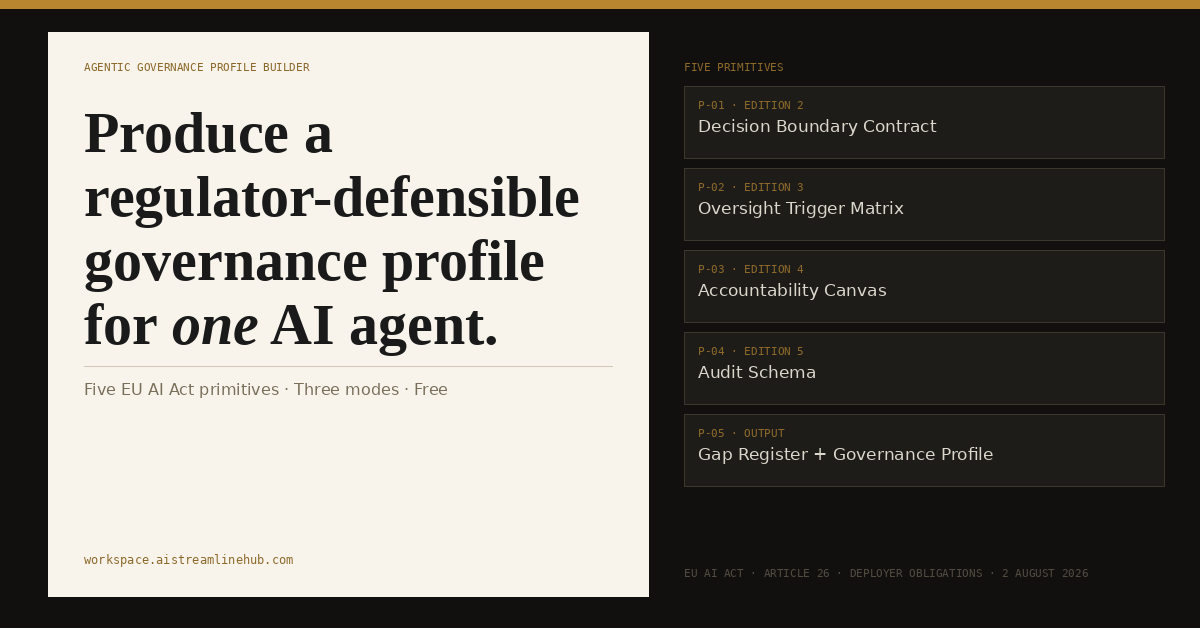
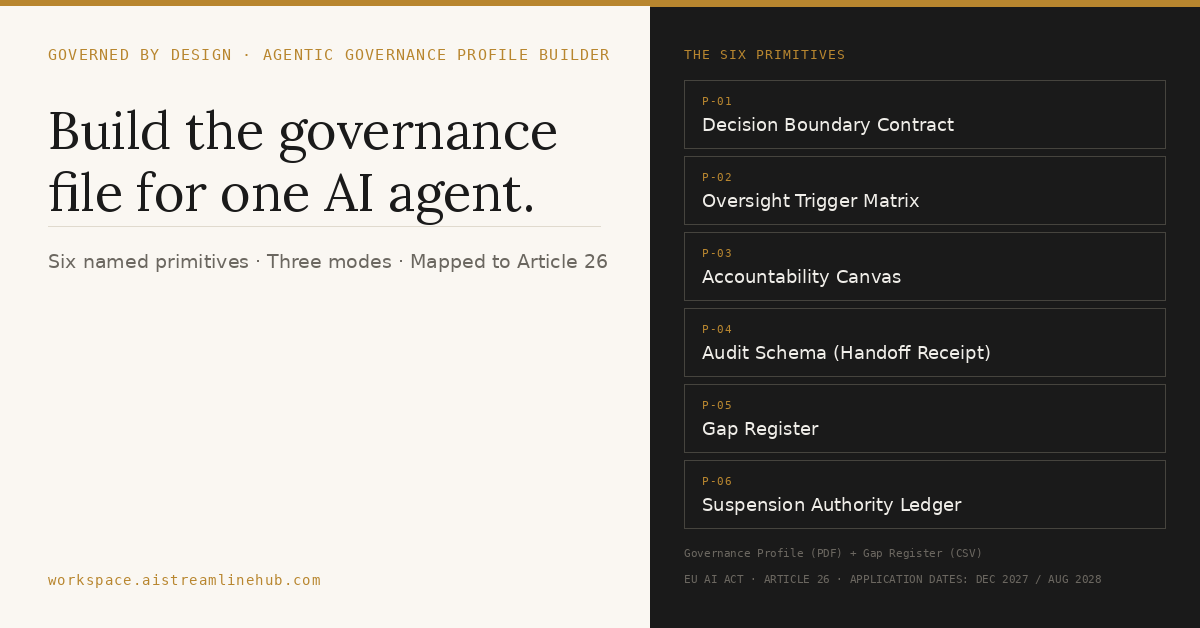
AGPB copy remediation: fix compliance claim, six-primitive list, metadata, hero copy, og-image (items 1-6)

diff --git a/public/index.html b/public/index.html
@@ -14,10 +14,10 @@
 </script>
 <script defer src="/_vercel/insights/script.js"></script>
 <link rel="canonical" href="https://workspace.aistreamlinehub.com/" />
-<meta name="description" content="Generate a regulator-defensible governance profile for one AI agent. Six EU AI Act primitives. Free. Works for agents in production and agents in design." />
+<meta name="description" content="Build a structured governance profile for one AI agent across six named primitives, mapped to EU AI Act Article 26 deployer obligations. Works for agents in design and agents already in production." />
 <meta name="robots" content="index, follow" />
-<meta property="og:title" content="Agentic Governance Profile Builder" />
-<meta property="og:description" content="Six EU AI Act governance primitives. One agent. One profile. Free." />
+<meta property="og:title" content="Agentic Governance Profile Builder — Governed by Design" />
+<meta property="og:description" content="Six named governance primitives. One agent. One profile you can hand to an auditor." />
 <meta property="og:url" content="https://workspace.aistreamlinehub.com/" />
 <meta property="og:type" content="website" />
 <meta name="twitter:card" content="summary_large_image" />
@@ -25,9 +25,9 @@
 <meta property="og:image:width" content="1200" />
 <meta property="og:image:height" content="628" />
 <meta name="twitter:image" content="https://workspace.aistreamlinehub.com/og-image.png" />
-<meta name="twitter:title" content="Agentic Governance Profile Builder" />
-<meta name="twitter:description" content="Six EU AI Act governance primitives. One agent. One profile. Free." />
-<title>Agentic Governance Profile Builder v1.2</title>
+<meta name="twitter:title" content="Agentic Governance Profile Builder — Governed by Design" />
+<meta name="twitter:description" content="Six named governance primitives. One agent. One profile you can hand to an auditor." />
+<title>Agentic Governance Profile Builder — EU AI Act Article 26 governance artefacts</title>
 <link rel="preconnect" href="https://fonts.googleapis.com" />
 <link rel="preconnect" href="https://fonts.gstatic.com" crossorigin />
 <link href="https://fonts.googleapis.com/css2?family=Instrument+Serif:ital@0;1&family=IBM+Plex+Sans:wght@300;400;500;600&family=IBM+Plex+Mono:wght@400;500&display=swap" rel="stylesheet" />
@@ -109,23 +109,27 @@
 <body>
 <div id="root">
   <div style="max-width:720px;margin:80px auto;padding:0 24px;font-family:sans-serif;color:#1A1A1A;">
-    <p style="font-size:11px;letter-spacing:0.1em;text-transform:uppercase;color:#6B6760;margin-bottom:24px;">AGENTIC GOVERNANCE PROFILE BUILDER · AISTREAMLINEHUB.COM</p>
-    <h1 style="font-size:2.5rem;font-weight:700;line-height:1.15;margin-bottom:16px;">Produce a regulator-defensible governance profile for one AI agent.</h1>
-    <p style="font-size:1.1rem;color:#444;margin-bottom:12px;">Six primitives. One agent. EU AI Act deployer obligations.</p>
+    <p style="font-size:11px;letter-spacing:0.1em;text-transform:uppercase;color:#6B6760;margin-bottom:24px;">GOVERNED BY DESIGN · AGENTIC GOVERNANCE PROFILE BUILDER</p>
+    <h1 style="font-size:2.5rem;font-weight:700;line-height:1.15;margin-bottom:16px;">Build the governance file for one AI agent.</h1>
+    <p style="font-size:1.1rem;color:#444;margin-bottom:12px;">Six named primitives. One agent. Mapped to EU AI Act Article 26 deployer obligations.</p>
     <p style="font-size:1rem;color:#444;margin-bottom:32px;">Works for agents you're building and agents already running in production. Three modes: pre-deployment, in-flight build, and retrofit on a deployed agent.</p>
-    <h2 style="font-size:1.2rem;font-weight:600;margin-bottom:8px;">What it produces</h2>
+    <h2 style="font-size:1.2rem;font-weight:600;margin-bottom:8px;">The six primitives</h2>
+    <p style="color:#444;margin-bottom:8px;">Six. There is no seventh.</p>
     <ul style="color:#444;line-height:1.8;margin-bottom:32px;">
-      <li>Decision Boundary Contract — what the agent may and may not do</li>
-      <li>Oversight Trigger Matrix — named human intervention calibrated to risk level</li>
-      <li>Suspension Authority Ledger — who can suspend the agent, on what trigger, and who gets notified</li>
-      <li>Accountability Canvas — four named owners before deployment</li>
-      <li>Audit Schema — queryable fields, retention, and Handoff Receipt structure</li>
-      <li>Governance Profile — regulator-defensible artifact, exportable as PDF</li>
-      <li>Gap Register — prioritised remediation plan, exportable as CSV</li>
+      <li>Decision Boundary Contract — what the agent may and may not decide</li>
+      <li>Oversight Trigger Matrix — named human intervention, calibrated to risk</li>
+      <li>Accountability Canvas — four named owners, before deployment</li>
+      <li>Audit Schema (Handoff Receipt) — queryable fields, retention, receipt structure</li>
+      <li>Gap Register — what is not yet documented, dated and owned</li>
+      <li>Suspension Authority Ledger — who can suspend, on what trigger, who is notified</li>
     </ul>
-    <h2 style="font-size:1.2rem;font-weight:600;margin-bottom:8px;">EU AI Act Article 26 deployer obligations</h2>
-    <p style="color:#444;margin-bottom:32px;">Article 26 deployer obligations apply from 2 August 2026. The AGPB maps each obligation to a named governance primitive and produces a profile that satisfies the documentation requirements for risk management, human oversight, accountability, and logging.</p>
-    <p style="font-size:0.9rem;color:#6B6760;">Free. No account required. Built by <a href="https://www.aistreamlinehub.com" style="color:#B8862F;">AI Streamline Hub</a>.</p>
+    <h2 style="font-size:1.2rem;font-weight:600;margin-bottom:8px;">What you take away</h2>
+    <p style="color:#444;margin-bottom:32px;">A Governance Profile covering all six primitives, exportable as PDF, and a Gap Register exportable as CSV.</p>
+    <h2 style="font-size:1.2rem;font-weight:600;margin-bottom:8px;">How it maps to EU AI Act Article 26</h2>
+    <p style="color:#444;margin-bottom:16px;">Article 26 sets out what a deployer of a high-risk AI system is expected to do: use the system per the provider's instructions, assign competent human oversight, monitor operation, retain logs, and inform affected people where required. The Builder maps each of those obligations to a named primitive and gives you a structured place to record how your organisation meets it — including what it does not yet meet.</p>
+    <p style="color:#444;margin-bottom:16px;">The application date for standalone Annex III high-risk systems is 2 December 2027, and 2 August 2028 for systems embedded in regulated products, following the Digital Omnibus on AI (OJ L_202601744, in force 27 July 2026). The obligations did not change. Only the date did.</p>
+    <p style="color:#444;margin-bottom:32px;">This is a documentation aid, not legal advice, and it does not determine your obligations or discharge them. For decisions about your institution, involve counsel.</p>
+    <p style="font-size:0.9rem;color:#6B6760;">No account. No payment. No sales follow-up. Built by <a href="https://www.aistreamlinehub.com" style="color:#B8862F;">AI Streamline Hub</a>.</p>
   </div>
 </div>
 
@@ -284,12 +288,12 @@ function App() {
   if (stage === 'welcome') return (
     <div className="min-h-screen flex items-center justify-center p-8 fade-in">
       <div className="max-w-2xl w-full">
-        <div className="mono text-xs tracking-widest text-[var(--muted)] mb-6">AGENTIC GOVERNANCE PROFILE BUILDER / v1.2</div>
+        <div className="mono text-xs tracking-widest text-[var(--muted)] mb-6">GOVERNED BY DESIGN · AGENTIC GOVERNANCE PROFILE BUILDER v1.2</div>
         <h1 className="display text-5xl md:text-6xl leading-[1.05] mb-6">
-          Produce a regulator-defensible<br/>
-          governance profile for <em className="display italic">one</em> AI agent.
+          Build the governance file<br/>
+          for <em className="display italic">one</em> AI agent.
         </h1>
-        <p className="text-[var(--muted)] text-lg leading-relaxed mb-2 max-w-xl">Six primitives. One agent. EU AI Act deployer obligations.</p>
+        <p className="text-[var(--muted)] text-lg leading-relaxed mb-2 max-w-xl">Six named primitives. One agent. Mapped to EU AI Act Article 26 deployer obligations.</p>
         <p className="text-[var(--muted)] leading-relaxed mb-10 max-w-xl">
           Works for agents you're building <em>and</em> agents already running in production. Choose your deployment status to shape the workspace.
         </p>
@@ -1328,7 +1332,8 @@ function downloadGapRegister(agent, gaps) {
     target_close_days: g.targetDays,
   }));
   const headers = Object.keys(rows[0]).join(',');
-  const csv = headers + '\n' + rows.map(r =>
+  const disclaimer = '"Not legal advice. This export is a documentation aid produced with the Agentic Governance Profile Builder (Governed by Design). It does not determine or discharge your organisation\'s Article 26 obligations. For decisions about your institution, involve counsel."';
+  const csv = disclaimer + '\n\n' + headers + '\n' + rows.map(r =>
     Object.values(r).map(v => `"${String(v).replace(/"/g, '""')}"`).join(',')
   ).join('\n');
 
@@ -1451,7 +1456,7 @@ function ProfileView({ agent, maturity, boundary, oversight, suspension, account
             <div className="doc-h3 mb-3">Article 26 Coverage Map</div>
             <h2 className="doc-h2 mb-4">How this profile maps to EU AI Act deployer obligations</h2>
             <p className="text-sm text-[var(--muted)] italic mb-6 leading-relaxed">
-              Article 26 applies from 2 August 2026. The Omnibus agreement (May 2026) extended Annex III classification deadlines — it did not move Article 26’s start date.
+              Article 26 obligations apply once a system is classified high-risk and deployed. Following the Digital Omnibus on AI (OJ L_202601744, in force 27 July 2026), the application date for standalone Annex III high-risk systems is 2 December 2027, and 2 August 2028 for systems embedded in regulated products. The obligations themselves did not change — only the date.
             </p>
             <div className="overflow-x-auto">
               <table className="w-full text-sm">
@@ -1768,7 +1773,13 @@ function ProfileView({ agent, maturity, boundary, oversight, suspension, account
             </p>
           </section>
 
-          <div className="rule-ink mt-16 pt-6 flex justify-between items-baseline text-xs text-[var(--muted)]">
+          <div className="rule mt-16 pt-4">
+            <p className="text-xs text-[var(--muted)] italic leading-relaxed">
+              This profile is a documentation aid, not legal advice. It does not determine your organisation's Article 26 obligations or discharge them. For decisions about your institution, involve counsel.
+            </p>
+          </div>
+
+          <div className="rule-ink mt-6 pt-6 flex justify-between items-baseline text-xs text-[var(--muted)]">
             <span className="mono tracking-widest">GOVERNED BY DESIGN · AISTREAMLINEHUB.COM</span>
             <span className="mono tracking-widest">AGPB v1.2</span>
           </div>
